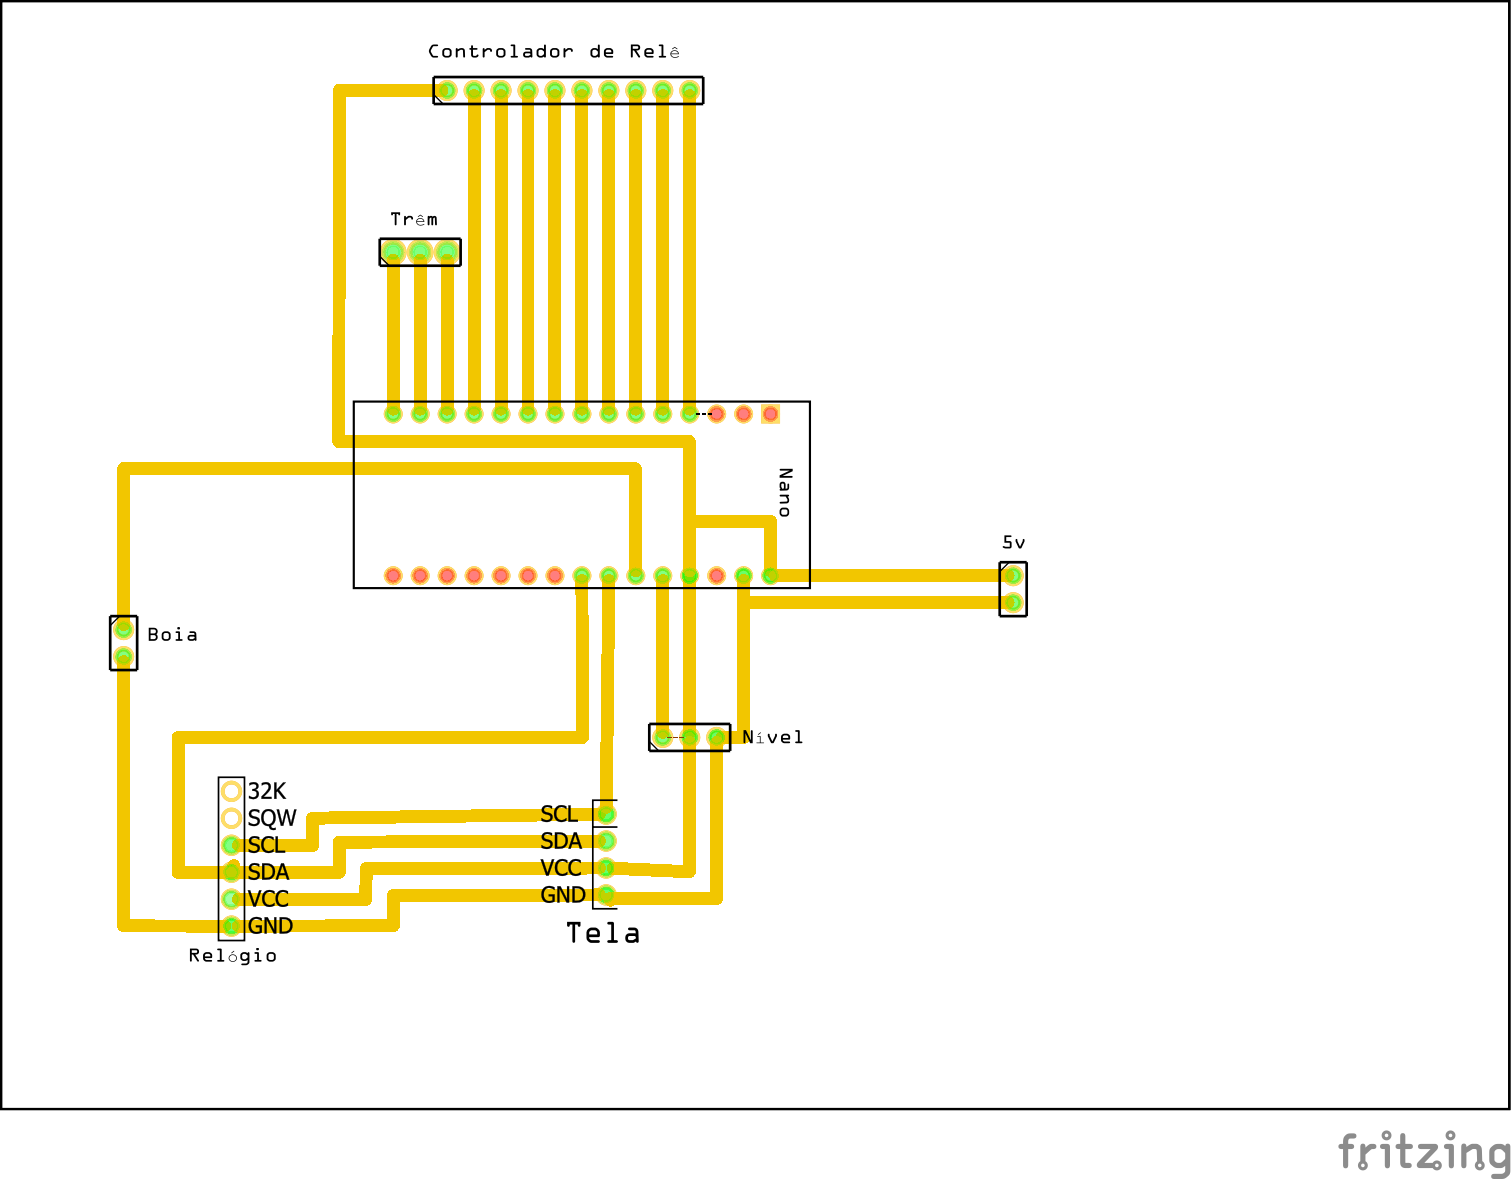
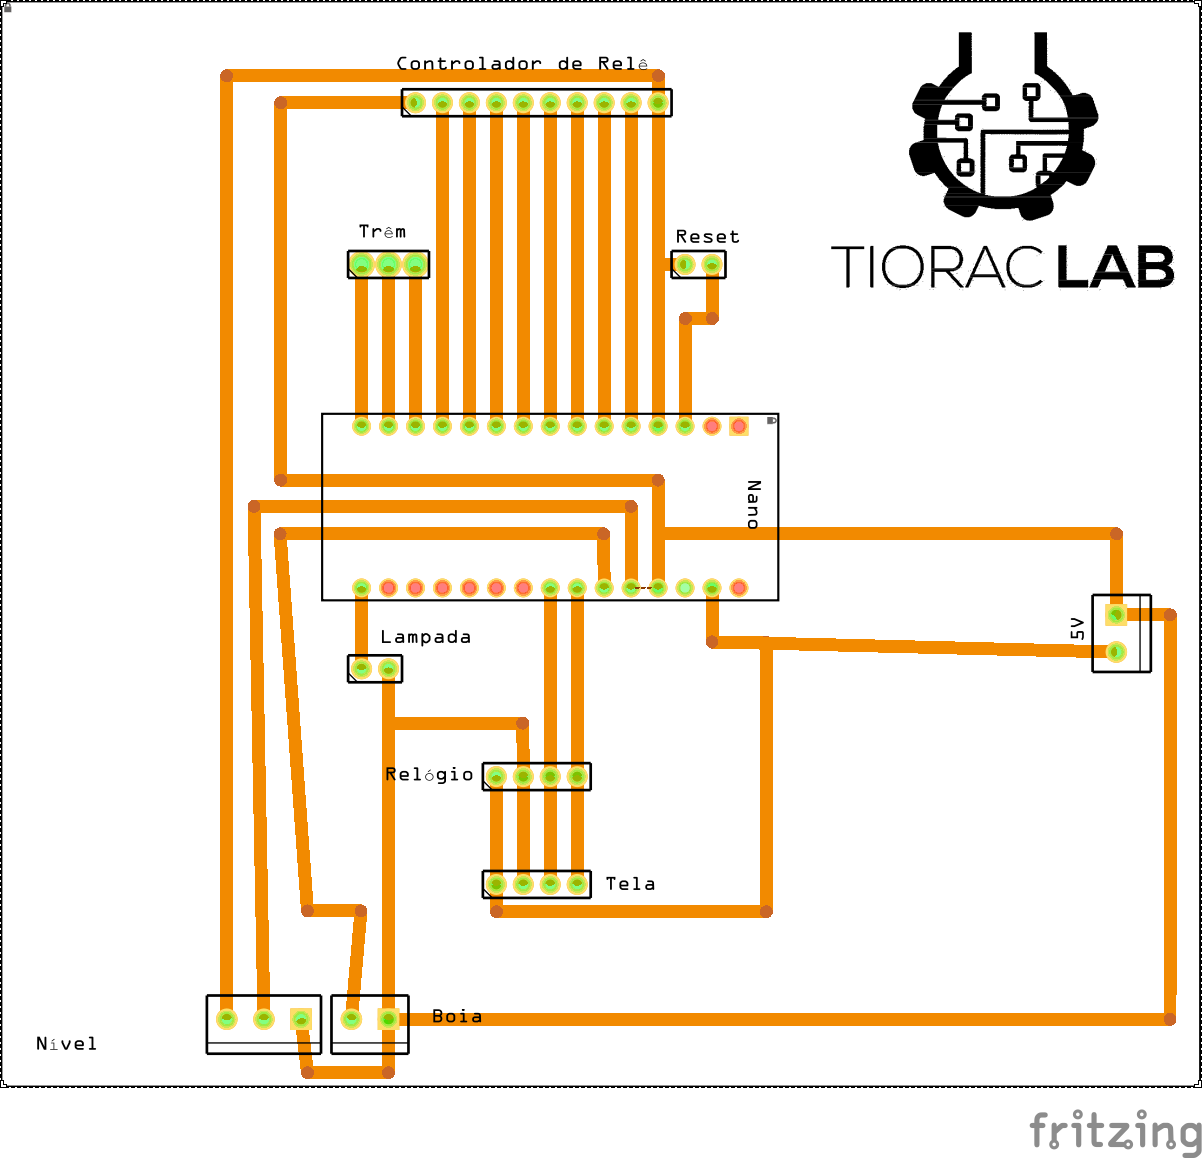
Melhorias

Changed region(s): [[0.0, 0.0, 1.0, 1.0], [0.0, 0.0, 0.0308, 0.0311]]

diff --git a/terrario/hidraulica.cpp b/terrario/hidraulica.cpp
@@ -50,12 +50,18 @@ void initHidraulica() {
  */
 void obterNivelLago(uint16_t *status) {
     int valor = analogRead(pinoSensorLago);
+    Serial.println(valor);
 
-    if (valor >= NivelLagoAlto)
-        atualizarStatus(status, STS_LAGO_ALTO);
-    
-    if (valor >= NivelLagoMedio)
-        atualizarStatus(status, STS_LAGO_MEDIO);
+    if (valor >= NivelLagoAlto) {
+        atualizarStatus(status, STS_LAGO_NIVEL1);
+        atualizarStatus(status, STS_LAGO_NIVEL2);
+    }
+    else if (valor >= NivelLagoMedio) {
+        atualizarStatus(status, STS_LAGO_NIVEL1);
+    }
+    else if (valor >= NivelLagoBaixo) {
+        atualizarStatus(status, STS_LAGO_NIVEL2);
+    }
 }
 
 /**
@@ -84,7 +90,7 @@ bool obterNivelReservatorio(uint16_t *status) {
  * Desativa a reposição quando o nível alto é lido no sensor.
  */
 void verificarReposicaoAgua(uint16_t *status) {
-    if (validarStatus(status, STS_LAGO_ALTO)) {
+    if (validarStatus(status, STS_LAGO_NIVEL1) && validarStatus(status, STS_LAGO_NIVEL2)) {
         repondoLago = false;
         digitalWrite(pinoReservatorio, HIGH);
     }
@@ -93,7 +99,7 @@ void verificarReposicaoAgua(uint16_t *status) {
             digitalWrite(pinoReservatorio, LOW);
             atualizarStatus(status, STS_BOMBA_RESERVATORIO);
         }
-        else if (validarStatus(status, STS_LAGO_MEDIO)) {
+        else if (validarStatus(status, STS_LAGO_NIVEL1)) {
             digitalWrite(pinoReservatorio, HIGH);
         }
         else {
@@ -119,13 +125,13 @@ void verificarIrrigacao(struct ts *dataHora, uint16_t *status) {
 }
 
 /**
- * Ativa a cachoeira, se não houver água no lago, desativa tudo.
+ * Ativa a cachoeira, se no nível da água no lago for considerado vazio, desativa tudo.
  */
 void verificarCachoeira(uint16_t *status) { 
     digitalWrite(pinoCachoeira, LOW);
     digitalWrite(pinoBombaPrincipal, LOW);
 
-    /*if (validarStatus(status, STS_LAGO_MEDIO)) {
+    /*if (validarStatus(status, STS_LAGO_NIVEL1) || validarStatus(status, STS_LAGO_NIVEL2)) {
         digitalWrite(pinoCachoeira, LOW);
         digitalWrite(pinoBombaPrincipal, LOW);
         

diff --git a/terrario/terrarioCentral.h b/terrario/terrarioCentral.h
@@ -34,8 +34,8 @@
 #define STS_DESLIGADO 0             //Tudo desligado.
 #define STS_ILUMINACAO 1            //Luz de iluminação ligada.
 #define STS_ESPECTRO 2              //Luz de espectro vermleho para as plantas ligadas.
-#define STS_LAGO_MEDIO 4            //Nível do lago está no médio.
-#define STS_LAGO_ALTO 8             //Nível do lago está alto.
+#define STS_LAGO_NIVEL1 4           //Nível 1 do lago. (11 = Alto, 10 = Médio, 01 = Baixo, 00 = Vazio)
+#define STS_LAGO_NIVEL2 8           //Nível 2 do lago. (11 = Alto, 10 = Médio, 01 = Baixo, 00 = Vazio)
 #define STS_RESERVATORIO 16         //Nível do reservatório baixo.
 #define STS_BOMBA_LAGO 32           //Bomba do lago ligada.
 #define STS_BOMBA_RESERVATORIO 64   //Bomba do reservatório ligada.

diff --git a/terrario/hidraulica.h b/terrario/hidraulica.h
@@ -8,6 +8,7 @@
 
 #define NivelLagoAlto 370   //Valor mínimo para identificar o lago como nível alto.
 #define NivelLagoMedio 300  //Valor mínimo para identificar o lago como nível médio.
+#define NivelLagoBaixo 100  //Valor mínimo para identificar o lago como nível baixo.
 #define NivelReservatorio 950
 
 /**
